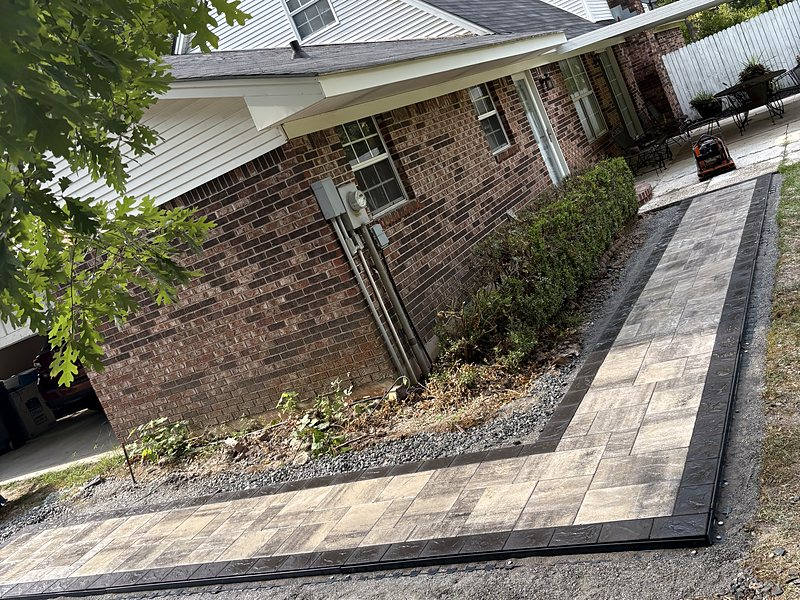
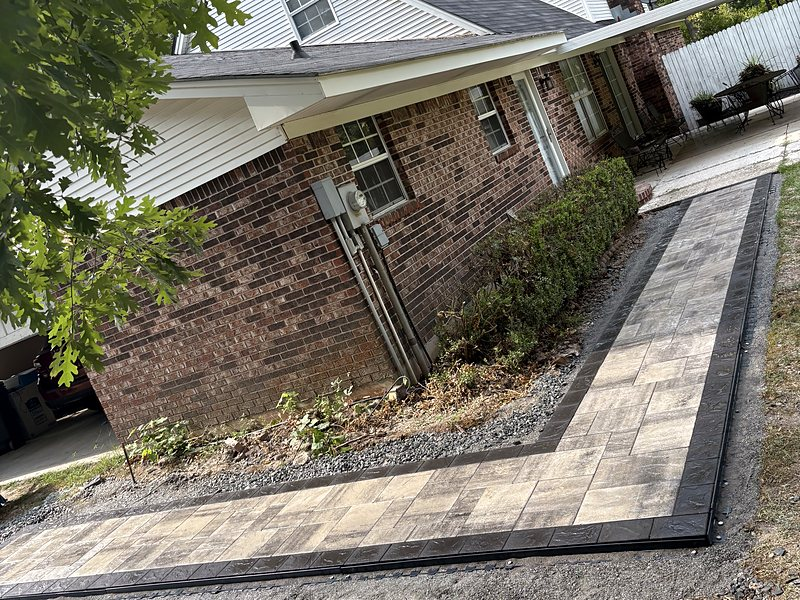
Sheridan: walk-along-the-house photo as the hero, two extra finished photos removed, compactor painted out

Changed region(s): [[0.8438, 0.18, 0.9375, 0.33]]

diff --git a/projects/sheridan/index.html b/projects/sheridan/index.html
@@ -605,8 +605,8 @@ figcaption { margin-top: var(--space-2); font-size: 15px; line-height: 1.45; col
 <header class="hero">
   <div class="hero-card">
     <picture>
-      <source media="(max-width: 640px)" srcset="../../img/projects/sheridan/hero-paver-walk-long-view-tall.jpg">
-      <img width="1800" height="1125" src="../../img/projects/sheridan/hero-paver-walk-around-corner-wide.jpg" alt="A new paver walk with a dark border turning the corner of a brick house toward a green Sheridan lawn, built by Amanda&#x27;s Villa" fetchpriority="high">
+      <source media="(max-width: 640px)" srcset="../../img/projects/sheridan/hero-paver-walk-along-brick-house-tall.jpg">
+      <img width="1800" height="1125" src="../../img/projects/sheridan/hero-paver-walk-along-brick-house-wide.jpg" alt="A new paver walk with a dark border running along a brick house and its hedge to the back patio of a Sheridan home, built by Amanda&#x27;s Villa" fetchpriority="high">
     </picture>
     <nav class="nav" aria-label="Main">
       <a class="wordmark" href="../../"><b>Amanda's Villa</b><span>Landscaping · Hardscape · Garden Center</span></a>
@@ -726,10 +726,6 @@ figcaption { margin-top: var(--space-2); font-size: 15px; line-height: 1.45; col
           </div>
           <figcaption>Paver walk along the house</figcaption>
         </figure>
-      </div>
-      <div class="job-more">
-        <figure><img width="750" height="1000" src="../../img/projects/sheridan/portfolio/side-walk-3-finished-around-corner.jpg" alt="A paver walk around the side of the house: Paver walk around the corner" loading="lazy"><figcaption>Paver walk around the corner</figcaption></figure>
-        <figure><img width="750" height="1000" src="../../img/projects/sheridan/portfolio/side-walk-4-finished-along-hedge.jpg" alt="A paver walk around the side of the house: Paver walk along the hedge" loading="lazy"><figcaption>Paver walk along the hedge</figcaption></figure>
       </div>
     </article>
   </div>

diff --git a/tools/build-town-pages.py b/tools/build-town-pages.py
@@ -760,8 +760,8 @@ SHERIDAN = {
     "hero": {
         "h1": "Paver Walk and Landing Projects in Sheridan, <em>Arkansas</em>",
         "sub": "A paver landing at the front door and a paver walk around the side of the house, built by the Amanda's Villa hardscape teams for a Sheridan home.",
-        "wide": ("hero-paver-walk-around-corner-wide", "A new paver walk with a dark border turning the corner of a brick house toward a green Sheridan lawn, built by Amanda's Villa"),
-        "tall": ("hero-paver-walk-long-view-tall",),
+        "wide": ("hero-paver-walk-along-brick-house-wide", "A new paver walk with a dark border running along a brick house and its hedge to the back patio of a Sheridan home, built by Amanda's Villa"),
+        "tall": ("hero-paver-walk-along-brick-house-tall",),
     },
     "work_h2": "Examples of our work in Sheridan",
     "work_intro": "Both of these were built by the Amanda's Villa hardscape teams at one home in Sheridan.",
@@ -780,12 +780,10 @@ SHERIDAN = {
              {"title": "A paver walk around the side of the house",
               "text": "An old path along the hedge and a worn bed along the side of the house were replaced by a paver walk with a dark border, set on gravel, that turns the corner of the house toward the driveway.",
               "pairs": [("side-walk-1-before-old-path", "side-walk-6-finished-long-view")],
-              "more": ["side-walk-3-finished-around-corner", "side-walk-4-finished-along-hedge"],
+              "more": [],
               "photos": [
                   ("side-walk-1-before-old-path", "Before: old path along the hedge"),
-                  ("side-walk-6-finished-long-view", "Finished: paver walk along the house"),
-                  ("side-walk-3-finished-around-corner", "Finished: paver walk around the corner"),
-                  ("side-walk-4-finished-along-hedge", "Finished: paver walk along the hedge")]},
+                  ("side-walk-6-finished-long-view", "Finished: paver walk along the house")]},
          ]},
     ],
     "sales": {
